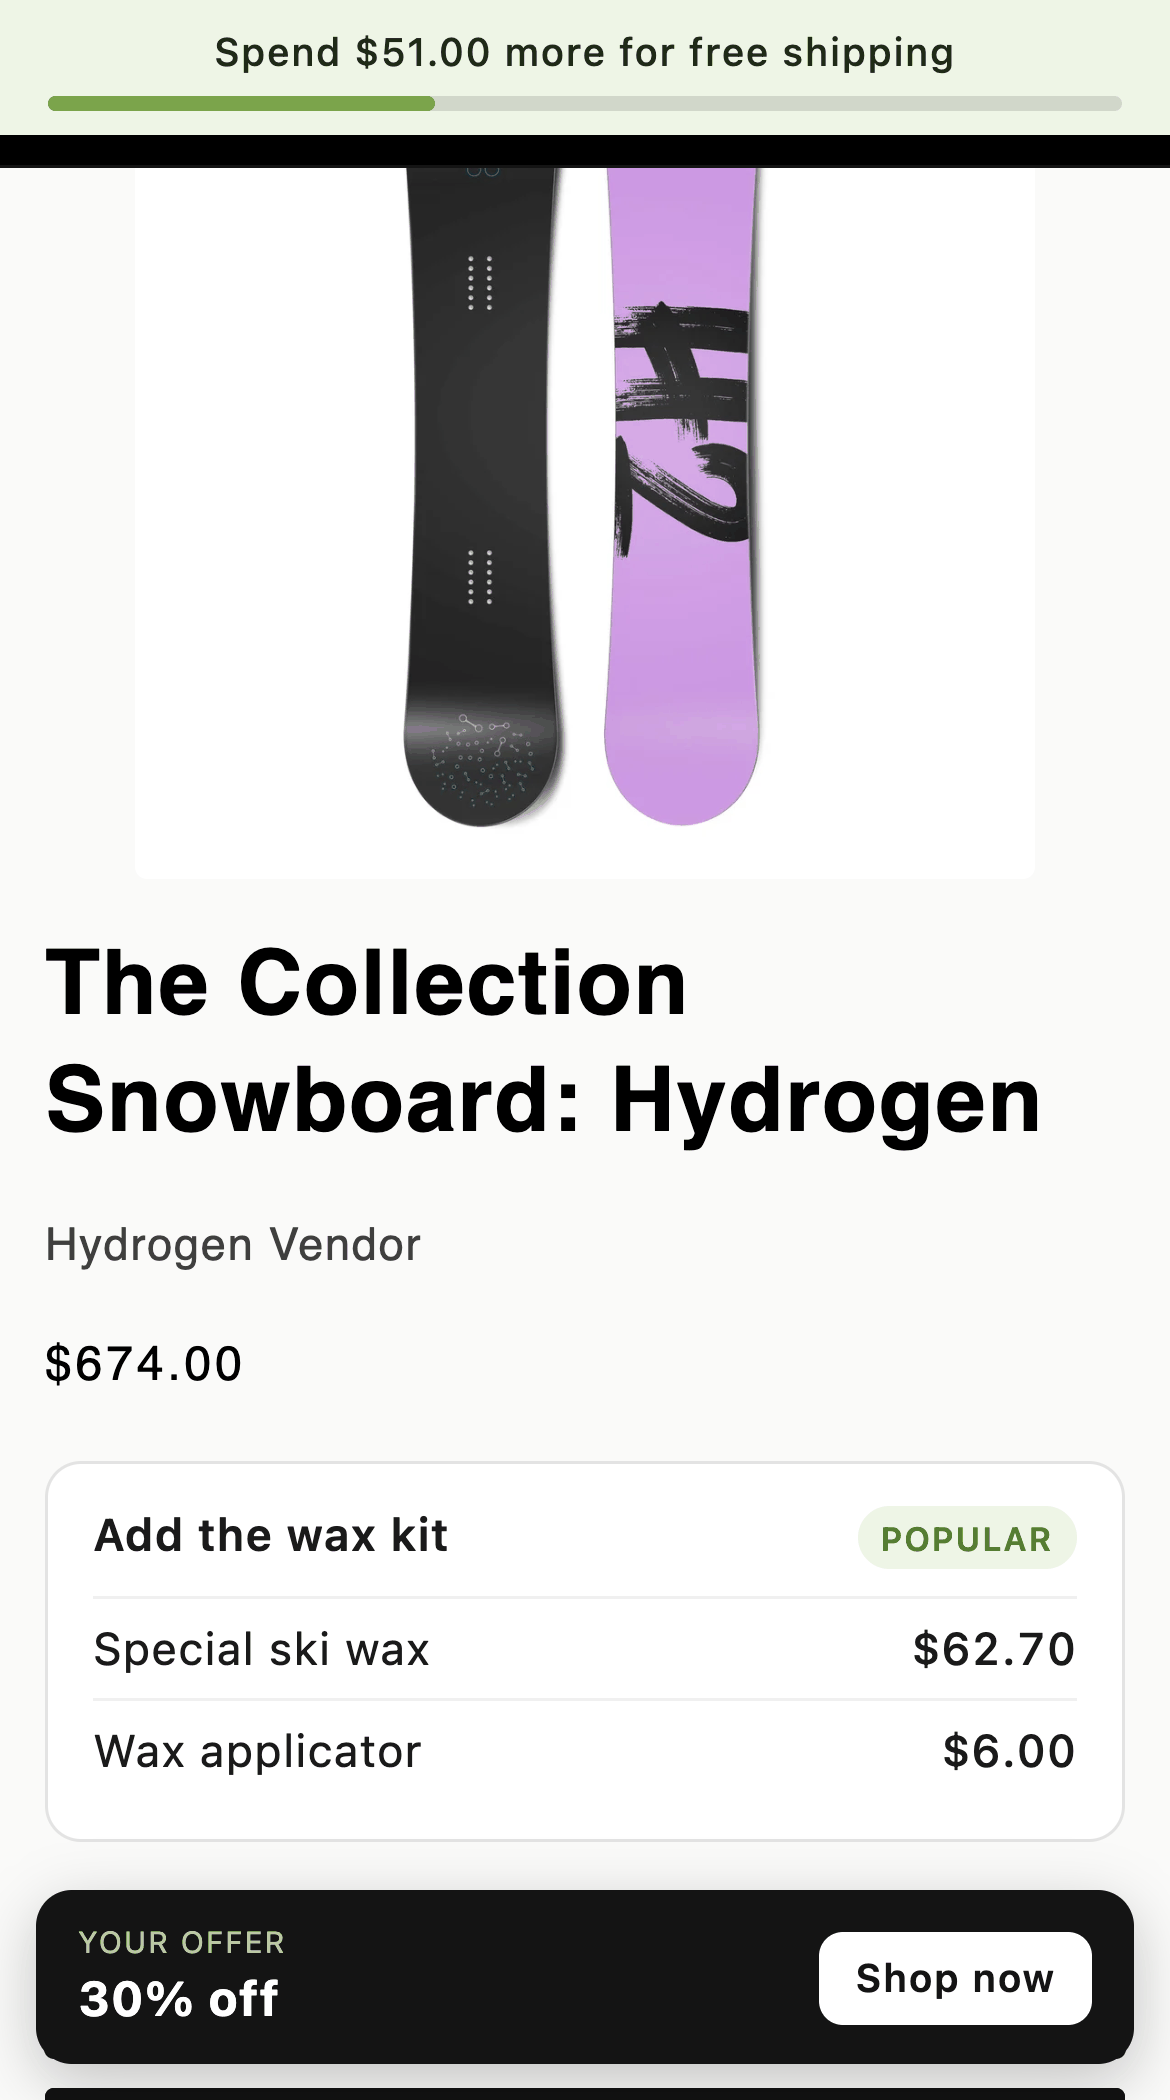
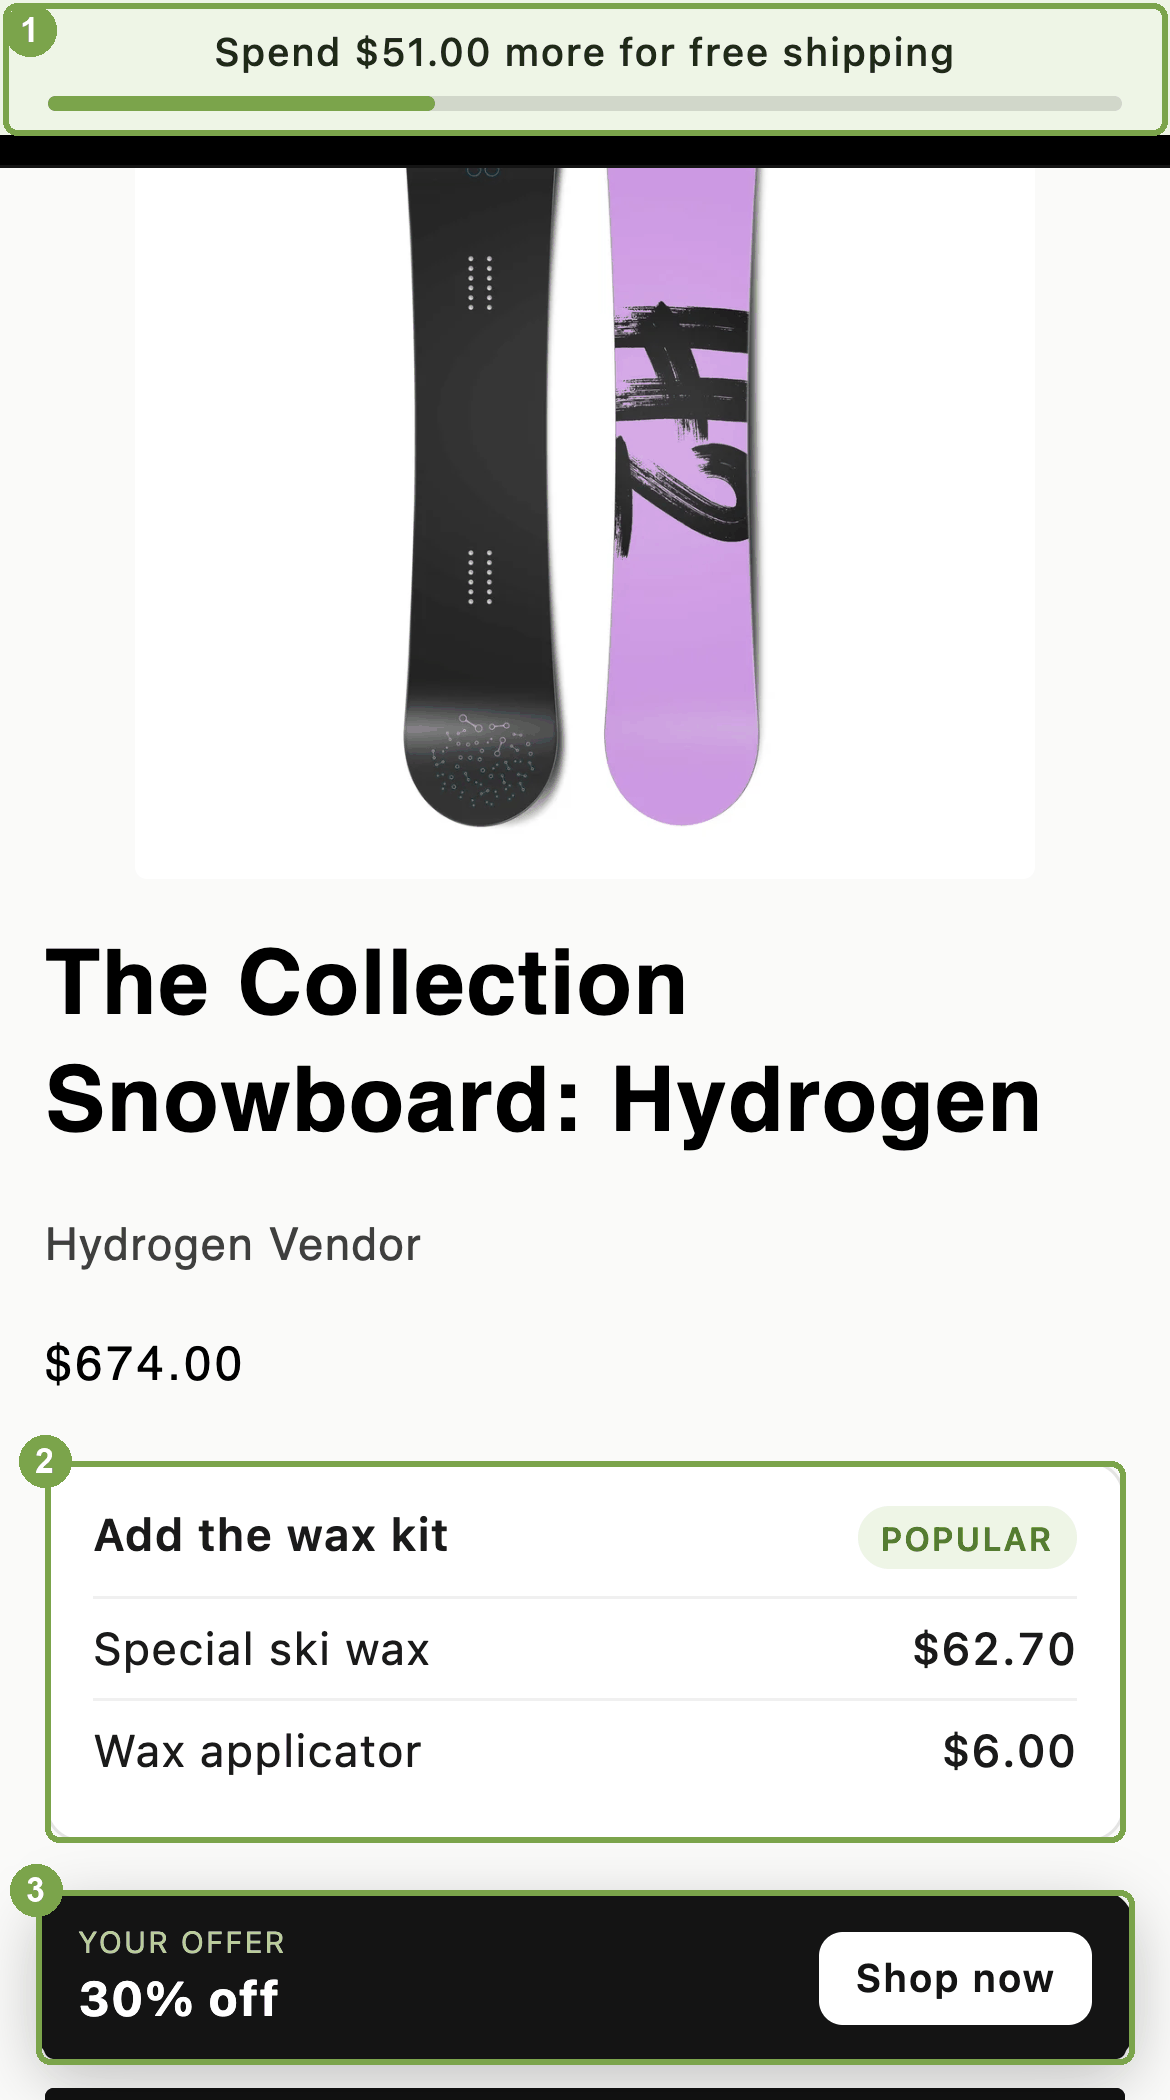
docs: outline and number the elements the examples render

diff --git a/browser-api/README.md b/browser-api/README.md
@@ -4,7 +4,9 @@ Theme JavaScript that reads `window.ABConvert`, the object ABConvert publishes o
 
 `window.ABConvert` tells your code which test groups the visitor is in, and the price, shipping rates, and offer that visitor gets. It is read-only: to create or manage tests, use the [public API](../public-api/). The contract lives in the [Browser API reference](https://docs.abconvert.io/api-reference/browser-api). The examples here show how to use it.
 
-<img src="storefront-overview.png" width="390" alt="A mobile product page with the three render examples: a free shipping bar with a progress track pinned above the header, a bundle card under the product price, and an offer card fixed to the bottom">
+<img src="storefront-overview.png" width="390" alt="A mobile product page with three elements outlined in green and numbered: 1 a free shipping bar with a progress track pinned above the header, 2 a bundle card under the product price, 3 an offer card fixed to the bottom">
+
+Outlined and numbered: **1** the free shipping bar, **2** the bundle card, **3** the offer card. The rest of the page is the theme's own.
 
 ## Start here
 
